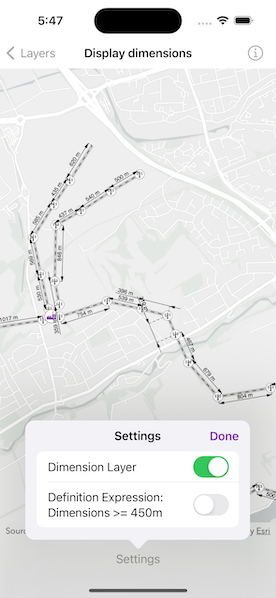
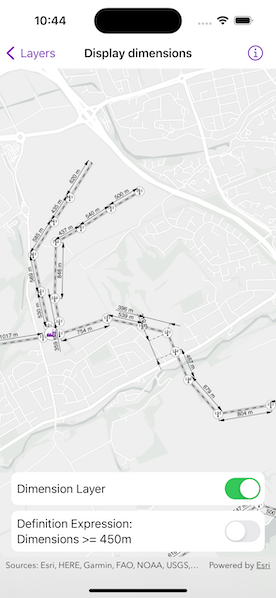
Remove settings button.
https://github.com/Esri/arcgis-maps-sdk-swift-samples/pull/279#issuecomment-1740118840

diff --git a/Shared/Samples/Display dimensions/DisplayDimensionsView.swift b/Shared/Samples/Display dimensions/DisplayDimensionsView.swift
@@ -22,9 +22,6 @@ struct DisplayDimensionsView: View {
     /// The dimensional layer added to the map.
     @State private var dimensionLayer: DimensionLayer?
     
-    /// A Boolean that indicates whether the settings view is showing.
-    @State var isShowingSettings = false
-    
     /// A Boolean that indicates whether to show an error alert.
     @State private var isShowingErrorAlert = false
     
@@ -60,62 +57,31 @@ struct DisplayDimensionsView: View {
                     self.error = error
                 }
             }
-            .toolbar {
-                ToolbarItem(placement: .bottomBar) {
-                    settingsButton
+            .overlay {
+                VStack {
+                    Spacer()
+                    Group {
+                        Toggle("Dimension Layer", isOn: Binding(
+                            get: { dimensionLayer?.isVisible ?? false },
+                            set: { dimensionLayer?.isVisible = $0 }
+                        ))
+                        Toggle("Definition Expression:\nDimensions >= 450m", isOn: Binding(
+                            get: { dimensionLayer?.definitionExpression == "DIMLENGTH >= 450" },
+                            set: { dimensionLayer?.definitionExpression = $0 ? "DIMLENGTH >= 450" : "" }
+                        ))
+                    }
+                    .padding(8)
+                    .background(Color.white)
+                    .cornerRadius(10)
                 }
+                .padding()
+                .padding(.bottom)
             }
             .alert(isPresented: $isShowingErrorAlert, presentingError: error)
     }
-    
-    /// The button that brings up the settings view.
-    @ViewBuilder private var settingsButton: some View {
-        let button = Button("Settings") {
-            isShowingSettings = true
-        }
-        .disabled(dimensionLayer == nil)
-        
-        if #available(iOS 16.4, *) {
-            button
-                .popover(isPresented: $isShowingSettings, arrowEdge: .bottom) {
-                    settingsView
-                        .presentationCompactAdaptation((.popover))
-                }
-        } else {
-            button
-                .sheet(isPresented: $isShowingSettings, detents: [.medium]) {
-                    settingsView
-                }
-        }
-    }
-    
-    /// The view containing the settings toggles.
-    private var settingsView: some View {
-        NavigationView {
-            List {
-                Toggle("Dimension Layer", isOn: Binding(
-                    get: { dimensionLayer?.isVisible ?? false },
-                    set: { dimensionLayer?.isVisible = $0 }
-                ))
-                Toggle("Definition Expression:\nDimensions >= 450m", isOn: Binding(
-                    get: { dimensionLayer?.definitionExpression == "DIMLENGTH >= 450" },
-                    set: { dimensionLayer?.definitionExpression = $0 ? "DIMLENGTH >= 450" : "" }
-                ))
-            }
-            .navigationTitle("Settings")
-            .navigationBarTitleDisplayMode(.inline)
-            .toolbar {
-                ToolbarItem(placement: .confirmationAction) {
-                    Button("Done") {
-                        isShowingSettings = false
-                    }
-                }
-            }
-        }
-        .navigationViewStyle(.stack)
-        .frame(idealWidth: 320, idealHeight: 170)
-    }
+}
 
+private extension DisplayDimensionsView {
     /// The errors for the sample that can be thrown during setup.
     private enum SetupError: String, LocalizedError {
         case noMap = "The MMPK doesn't contain a map."
